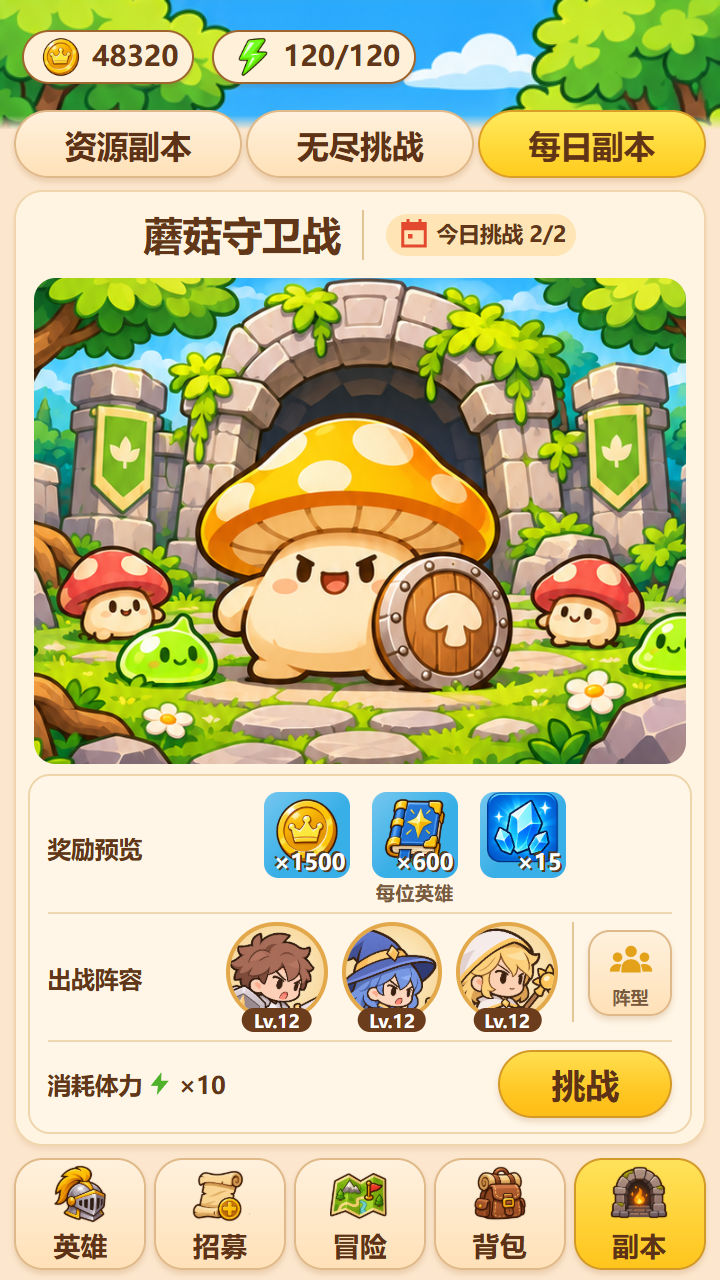
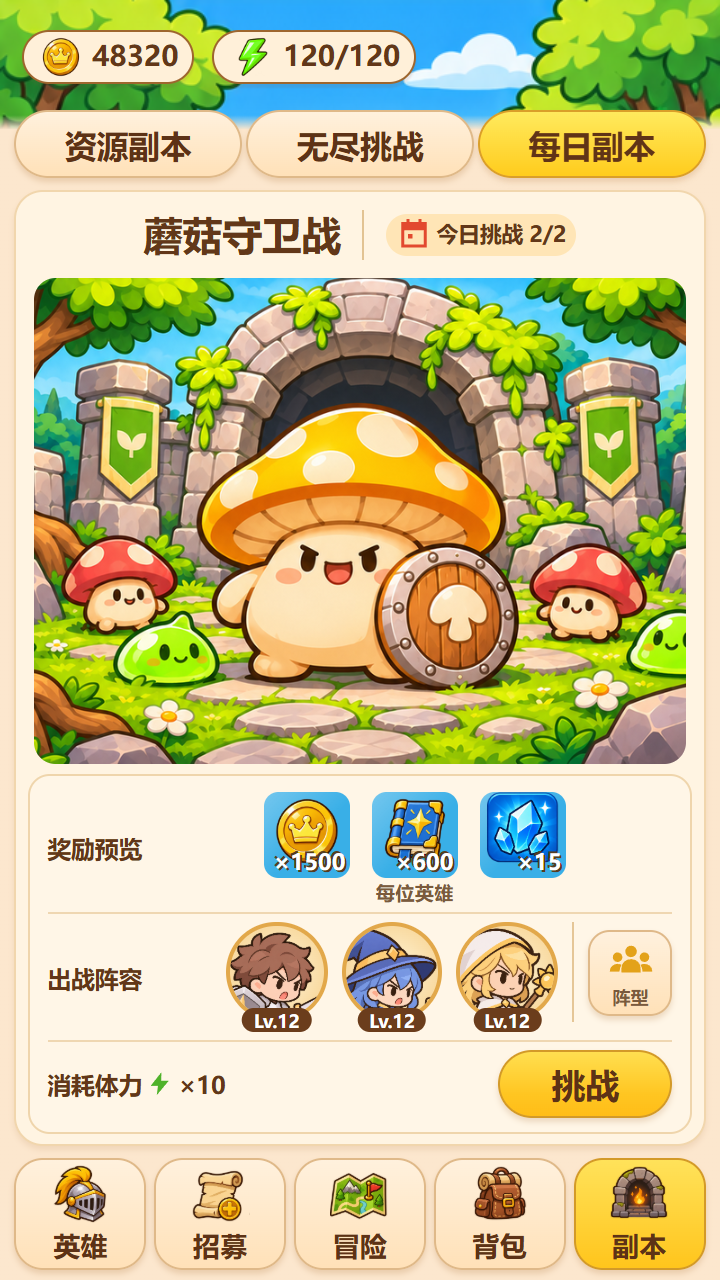
feat: star-up popup per concept and codex dungeon illustrations
- Star-up popup: reused cost avatar, star art, chunky arrow, attribute
  icons, column-aligned values, smaller left-aligned cost text.
- Endless and daily illustrations regenerated with codex instead of
  being cropped from concept images.

Changed region(s): [[0.0306, 0.2188, 0.9778, 0.5938]]

diff --git a/assets/scripts/SecondEditionUI.ts b/assets/scripts/SecondEditionUI.ts
@@ -6,6 +6,7 @@ import {COMBAT_KEYS,COMBAT_LABELS} from './CombatAttributes';
 
 type Page='hero'|'recruit'|'adventure'|'bag'|'dungeon';
 type Bridge={model:()=>SquadBattleModel;mutate:(fn:(m:SquadBattleModel)=>string|null)=>string|null;navigate:(p:Page)=>void;battle:()=>SquadBattleModel;speed:()=>number;setSpeed:()=>void;start:(id:number,difficulty:number)=>void;resume:()=>void;leave:()=>void;end:()=>void;retry:()=>void;exit:()=>void;formation:(ids:number[])=>string|null};
+const ARROW_ICON='<svg class="change-arrow" viewBox="0 0 24 24" aria-hidden="true"><path d="M3.5 9.6h9.2V5.4l7.8 6.6-7.8 6.6v-4.2H3.5z" fill="currentColor" stroke="currentColor" stroke-width="1.6" stroke-linejoin="round"/></svg>';
 const RESET_ICON='<svg class="reset-icon" viewBox="0 0 24 24" aria-hidden="true"><path d="M19.4 13.6A7.6 7.6 0 1 1 16.9 6.2" fill="none" stroke="currentColor" stroke-width="3.2" stroke-linecap="round"/><path d="M20.6 2.8v6.6h-6.6z" fill="currentColor" stroke="currentColor" stroke-width="1.4" stroke-linejoin="round"/></svg>';
 const NAMES=['莱恩','艾琳','莉亚','罗宾'],ROLES=['坦克','输出','治疗','输出'];
 const Q=['#b8afa2','#83c632','#39afe7','#b36add','#ffc631'];
@@ -114,7 +115,8 @@ export class SecondEditionUI{
  private info(title:string,text:string,confirm?:()=>void){this.confirm(title,esc(text),confirm);}
  private confirm(title:string,html:string,confirm?:()=>void){this.popup(title,`<div class="info-pad">${html}</div>`,confirm?this.button('取消',()=>this.close(),'peach')+this.button('确定',()=>{this.close();confirm();}):'','small');}
  private row(name:string,value:unknown,icon=''){return `<div class="stat-row"><span>${icon?(/^attr\d+$/.test(icon)?this.statIcon(+icon.slice(4),'sparkle'):ico(icon)):''}${esc(name)}</span><b>${value}</b></div>`;}
- private arrow(before:unknown,after:unknown){return `<span class="change">${before}<i>➜</i><em>${after}</em></span>`;}
+ private arrow(before:unknown,after:unknown){return `<span class="change"><span>${before}</span>${ARROW_ICON}<em>${after}</em></span>`;}
+ private starMarks(n:number){return this.urls.starOn?Array.from({length:n},()=>'<i class="star-mark"></i>').join(''):'★'.repeat(n);}
  private section(title:string){return `<h3 class="section-title"><span>${this.urls.leafMark?this.img('leafMark','section-mark'):ico('leaf')}${esc(title)}</span></h3>`;}
  private divider(mark='flower'){return `<div class="ornament-line">${this.urls[mark]?this.img(mark,'ornament-mark'):'<i>✦</i>'}</div>`;}
  private gear(g:Gear|null,slot=0,extra=''){return `<div class="gear-tile ${g?'':'empty'}" style="--quality:${g?Q[g.quality]:'#c4b6a6'}">${g?this.img('icon'+g.slot):'<span class="empty-slot-symbol">＋</span>'}${g?`<b class="gear-level">Lv.${g.level}</b>${g.locked?this.img('lock','gear-lock'):''}`:''}${extra}</div>`;}
@@ -139,7 +141,7 @@ export class SecondEditionUI{
  private attributeIcon(name:string){return `<svg class="attribute-icon" viewBox="0 0 24 24" aria-hidden="true"><path d="${ICONS[name]}"/></svg>`;}
  private heroAttributes(id:number){const b=this.port.model(),s=b.stats(id),c=b.combatStats(id),pct=(v:number)=>Math.round(v*100)+'%';const attrs:[string,unknown,string][]=[['生命',s.hp,'heart'],['攻击',s.attack,'sword'],['防御',s.defense,'shield'],['移速',s.speed,'speed'],['暴击率',pct(c.critChance),'burst'],['暴击伤害',pct(c.critDamage),'burst'],['连击率',pct(c.comboChance),'refresh'],['破甲率',pct(c.armorPen),'shield'],['冷却缩减',pct(c.cooldownReduction),'hourglass'],['治疗加成',pct(c.healingBonus),'cross'],['护盾加成',pct(c.shieldBonus),'shield'],['普攻伤害',pct(c.basicBonus),'blades'],['技能伤害',pct(c.skillBonus),'fire'],['闪避率',pct(c.dodgeChance),'speed']];return `<div class="hero-attribute-grid">${attrs.map(([name,value,icon],i)=>`<div style="grid-column:${i<7?1:2};grid-row:${i%7+1}" title="${name}：当前战斗数值"><div class="stat-row"><span>${this.statIcon(i,icon)}${name}${name==='破甲率'?this.button('?',()=>this.info('破甲率','攻击时忽略目标对应比例的护甲，同时作用于普通攻击和伤害技能。'),'flat attribute-help',false,'破甲率说明'):''}</span><b>${value}</b></div></div>`).join('')}</div>`;}
 
- private star(){const b=this.port.model(),id=this.selected,p=b.starPreview(id);if(!p){this.info('英雄升星','请先招募该英雄');return;}const max=p.stars>=5;this.popup('英雄升星',`<div class="item-heading"><div class="portrait-tile" style="--quality:${Q[[4,3,2,2][id]]}">${this.face(id)}</div><div><h3>${NAMES[id]}</h3><p class="star-change">${'★'.repeat(p.stars)}<i>➜</i>${max?'已满星':'★'.repeat(p.stars+1)}</p></div></div>${this.divider()}`+this.section('提升预览')+this.row('生命',this.arrow(p.before.hp,p.after.hp),'heart')+this.row('攻击',this.arrow(p.before.attack,p.after.attack),'sword')+this.row(SKILL_NAMES[id][0]+'效果',this.arrow(p.before.power,p.after.power),'shield')+this.divider()+this.section('升星消耗')+`<div class="cost-card"><div class="portrait-tile small" style="--quality:${Q[[4,3,2,2][id]]}">${this.face(id)}<b>×${p.cost}</b></div><div><h3>${NAMES[id]}份数</h3><p>持有 <em class="${p.available>=p.cost?'':'short'}">${p.available}</em> 份 / 消耗 ${p.cost} 份</p></div></div>`,this.button(max?'已满星':'升星',()=>this.run(m=>m.starUp(id),()=>{this.draw();this.star();}),'wide',max||p.available<p.cost));}
+ private star(){const b=this.port.model(),id=this.selected,p=b.starPreview(id);if(!p){this.info('英雄升星','请先招募该英雄');return;}const max=p.stars>=5;this.popup('英雄升星',`<div class="item-heading star-heading"><div class="portrait-tile small" style="--quality:${Q[[4,3,2,2][id]]}">${this.face(id)}</div><div><h3>${NAMES[id]}</h3><p class="star-change"><span>${this.starMarks(p.stars)}</span>${ARROW_ICON}<span>${max?'已满星':this.starMarks(p.stars+1)}</span></p></div></div>${this.divider()}`+this.section('提升预览')+this.row('生命',this.arrow(p.before.hp,p.after.hp),'attr0')+this.row('攻击',this.arrow(p.before.attack,p.after.attack),'attr1')+this.row(SKILL_NAMES[id][0]+(id===0?'护盾':id===2?'治疗量':'伤害'),this.arrow(p.before.power,p.after.power),id===0?'attr10':id===2?'attr9':'attr12')+this.divider()+this.section('升星消耗')+`<div class="cost-card"><div class="portrait-tile small" style="--quality:${Q[[4,3,2,2][id]]}">${this.face(id)}<b>×${p.cost}</b></div><div><h3>${NAMES[id]}份数</h3><p>持有 <em class="${p.available>=p.cost?'':'short'}">${p.available}</em> 份 / 消耗 ${p.cost} 份</p></div></div>`,this.button(max?'已满星':'升星',()=>this.run(m=>m.starUp(id),()=>{this.draw();this.star();}),'wide',max||p.available<p.cost));}
  private skill(index:number){const b=this.port.model(),id=this.selected,s=b.stats(id),passive=index%2===1;const descriptions=[[`为自己施加<em class="green">${Math.round(s.power)}</em>点护盾，吸收受到的伤害。`,'提升自身防御。','挥盾打击攻击最高的敌人。','强化两个主动技能的效果。'],['向随机敌人投出火焰。','强化主动技能效果。','引爆生命比例最低的敌人。','强化两个主动技能的效果。'],['恢复生命比例最低的队友。','提升主动治疗效果。','为伤势最重的队友施加强效治疗。','强化两个主动技能的效果。'],['射出一箭，攻击随机敌人。','提升普通攻击伤害。','瞄准生命比例最低的敌人射击。','强化两个主动技能的效果。']];const power=Math.round(s.power*(index===2?1.4:1));this.popup('技能详情',`<div class="item-heading"><div class="skill-preview">${this.skillIcon(id,index)}</div><div><h3>${SKILL_NAMES[id][index]}</h3><p class="pill">${passive?'被动':'主动'} · ${b.unlocked(id,index)?'已解锁':SKILL_LEVELS[index]+'级解锁'}</p></div></div>${this.divider()}`+this.section('技能属性')+this.row(passive?'解锁等级':id===2?'治疗量':id===0&&index===0?'护盾值':'技能效果',`<em>${passive?'Lv.'+SKILL_LEVELS[index]:power}</em>`,passive?'star':id===2?'attr9':id===0&&index===0?'attr10':'attr12')+this.row(passive?'生效方式':'冷却',passive?'自动生效':`<em class="blue">${index===0?s.cooldown:b.secondCooldown(id)}秒</em>`,'attr8')+this.section('技能描述')+`<div class="info-pad skill-description">${descriptions[id][index]}</div>`);}
  private treeLayout(){const left=[[27,91],[30,66],[13,54],[30,40],[14,27]],right=left.map(([x,y])=>[100-x,y]);return Array.from({length:15},(_,i)=>i<5?[50,91-i*18.5]:i<10?left[i-5]:right[i-10]);}
  private talents(selected=0){const b=this.port.model(),id=this.selected;if(!b.owns(id)){this.info('天赋树','请先招募该英雄');return;}const tree=b.interfaceProgress.tree[id],pos=this.treeLayout();

diff --git a/assets/scripts/SecondEditionStyles.ts b/assets/scripts/SecondEditionStyles.ts
@@ -1170,4 +1170,23 @@ html,body{background:#263b2c!important}
 #s6-v2 .talent-node.learned .talent-medal{filter:drop-shadow(0 .3cqw .4cqw #9a5a0a55)}
 #s6-v2 .v2-button.talent-node.current:has(.talent-medal){box-shadow:0 0 0 .7cqw #62d036,0 0 2.6cqw 1cqw #8cf05acc!important}
 #s6-v2 .talent-node b{z-index:1}
+/* Star-up popup and value changes matched to the concept. */
+#s6-v2 .change{display:inline-grid;grid-template-columns:12cqw 8cqw 11cqw;align-items:center;gap:0;font-size:3.6cqw;font-weight:700}
+#s6-v2 .change>span{text-align:right;color:#5d3216}
+#s6-v2 .change>em{text-align:right;color:#3e9a2b;font-style:normal;font-weight:800}
+#s6-v2 .change-arrow{display:block;justify-self:center;width:4.2cqw;height:4.2cqw;color:#c58d55}
+#s6-v2 .v2-dialog .item-heading.star-heading{align-items:center}
+#s6-v2 .star-heading>.portrait-tile.small{width:19cqw}
+#s6-v2 .star-change{display:flex;align-items:center;gap:2.4cqw;margin:0;letter-spacing:0;text-shadow:none}
+#s6-v2 .star-change>span{display:inline-flex;gap:.4cqw;color:#9a7a5c;font-size:3.4cqw}
+#s6-v2 .star-change .change-arrow{width:4.6cqw;height:4.6cqw}
+#s6-v2 .star-mark{display:inline-block;width:6cqw;height:6cqw;background:var(--star-on) center/contain no-repeat}
+#s6-v2 .v2-dialog .cost-card{background:#f9e4c6;border-radius:3cqw;padding:2cqw 3.4cqw 2cqw 5cqw;gap:4cqw}
+#s6-v2 .v2-dialog .cost-card>.portrait-tile.small{width:16cqw}
+#s6-v2 .v2-dialog .cost-card>div:last-child{align-items:flex-start;text-align:left;gap:1cqw;padding-left:4cqw}
+#s6-v2 .v2-dialog .cost-card h3{font-size:3.6cqw;margin:0;text-align:left}
+#s6-v2 .v2-dialog .cost-card p{font-size:3.2cqw;margin:0;text-align:left;color:#6b4426}
+#s6-v2 .v2-dialog .cost-card em{font-style:normal;font-weight:800;color:#3e9a2b}
+#s6-v2 .v2-dialog .cost-card em.short{color:#d9472b}
+#s6-v2 .v2-dialog .dialog-actions button.wide{min-width:62%}
 `;

diff --git a/docs/美术参考/第二版/副本插画-v1.prompt.md b/docs/美术参考/第二版/副本插画-v1.prompt.md
@@ -1,0 +1,15 @@
+Use case: stylized-concept.
+Asset type: One production-ready raster illustration atlas for a bright chibi fantasy mobile idle RPG, regenerating the supplied v2-feature-scenes.png.
+
+Input images and roles:
+1. v2-feature-scenes.png is the edit target and defines the asset format: exactly two wide illustrations stacked vertically, equal height, upper scene endless tower, lower scene daily mushroom guardian.
+2. 副本页-无尽挑战-v1.png is the visual reference for the upper illustration only. Use the illustrated tower scene, not its interface.
+3. 副本页-每日副本-v1.png is the visual reference for the lower illustration only. Use the illustrated mushroom scene, not its interface.
+
+Generate exactly ONE image, a portrait 5:6 atlas, ideally 900 × 1080 pixels, split precisely at the horizontal midpoint into two edge-to-edge 5:3 landscape illustrations. No margins, no gutters, no panel frames, no rounded corners, no interface, no lettering, no titles, no labels, no numbers, no watermark. The two landscapes must remain independent and must not blend across their straight horizontal boundary. Regenerate the artwork with polished original painted pixels, rather than reproducing or cropping the reference screenshots.
+
+Upper half — endless challenge: A majestic but friendly cylindrical ancient gray-stone tower rises in the middle of a lush sunny fantasy valley. Show its full recognizable silhouette and uppermost architectural finish within this panel, with a little clear sky above; avoid cutting the top off. A stone spiral ramp winds upward around the tower. Warm golden arched windows, blue royal banners with simple gold heraldic emblems, golden trim around the large entrance arch, creeping lime-green vines. A luminous cyan swirling magical portal fills the entrance, facing the viewer, stone steps and a winding flagstone approach in front. At lower left, one small glossy green slime with two black oval eyes; at lower right, one cute red, white-spotted mushroom sentry holding a short spear and a small brown shield with a simple mushroom emblem. The tower is the main focal point and substantially larger than these small creatures. Blue sky, soft stylized clouds, distant turquoise mountains, pale rocky cliffs and waterfalls on both sides, green tree foliage framing the outer corners, tiny white flowers in the grass. Keep the entire portal, steps, slime and mushroom sentry visible and legible.
+
+Lower half — daily mushroom guardian: A cheerful stout cream-colored mushroom boss dominates the center foreground, with an oversized broad golden-yellow cap with large pale spots, small stubby feet and arms, confident dark eyebrows, black eyes, smiling open mouth and soft peach cheeks. A large round wooden shield with a thick riveted metal rim and pale mushroom emblem rests upright on its viewer-right side, held naturally and without hiding its face. Behind it stands a weathered pale-gray stone archway with a dark recessed entrance, leafy vines over the arch, and short stone pillars on either side bearing green banners with simple cream sprout emblems. Exactly two smaller red spotted mushroom companions, one to each side of the boss, and two friendly small green slimes farther forward near the left and right edges. Lush green woodland, warm tree trunks framing the scene, mossy flagstones, scattered smooth rocks and a few simple white daisies. Keep the boss's entire cap, feet, and shield within the lower panel. Match the reference's proportions, appealing expressions and clear depth.
+
+Style and rendering: closely match the two supplied page-reference illustrations: bright simplified hand-painted 2D chibi fantasy game art, bold clean warm dark outlines, appealing rounded silhouettes, controlled cel-like shading with soft painted transitions, crisp readable forms, juicy lime and emerald foliage, saturated azure sky, inviting golden light, cream highlights and warm stone. Consistent character design, line weight, perspective, material rendering and sunny atmosphere across both panels. Rich but organized detail that reads well at phone size, with broad clear masses rather than noisy microtexture. Original cute monsters, inviting adventure mood, no horror, no photorealism, no 3D render, no excessive bloom. Preserve the established two-scene subject matter and layout; improve composition and finish without adding new game mechanics, heroes or extra scenes.

diff --git a/docs/产品文档.md b/docs/产品文档.md
@@ -1031,3 +1031,9 @@
 - 天赋树：圆形头像，主干加两侧从主干生长的弯曲枝条和嫩芽，已学习金色、未学习银色徽章，说明文字左对齐缩小，修复已学习节点不变金的问题；节点点击无位移。
 - 按钮按下反馈改用独立的缩放与位移属性，居中定位的按钮按下时不再横向跳动；英雄页编队按钮图标居中、重置按钮加深。
 - 118项模型检查、Cocos构建与文件校验、英雄页四尺寸、四主界面七状态×四尺寸、29界面交互回归均通过（弹窗按钮检查改为允许新按钮皮肤）。仅本地提交，不推送发布。
+
+## 102. 英雄升星弹窗与副本插画重绘（2026-11-21）
+
+- 英雄升星弹窗按效果图：头像复用升星消耗的头像格；星级改用星星美术，箭头改为与效果图一致的厚实箭头；属性行使用属性图标，技能行文案为“守护护盾/治疗量/伤害”；新旧数值分列右对齐，箭头居中对齐，字号缩小；升星消耗卡文字左对齐缩小，持有数量足够绿色、不足红色。数值变化箭头样式同步用于其他升级预览。
+- 无尽挑战与每日副本插画改用 codex 重新生成（docs/美术参考/第二版/副本插画-v1.png 及提示词），不再从效果图裁切，原文件名与资源编号不变。
+- 118项模型检查、Cocos构建与文件校验、英雄页四尺寸、四主界面七状态×四尺寸、29界面交互回归均通过。仅本地提交，不推送发布。
